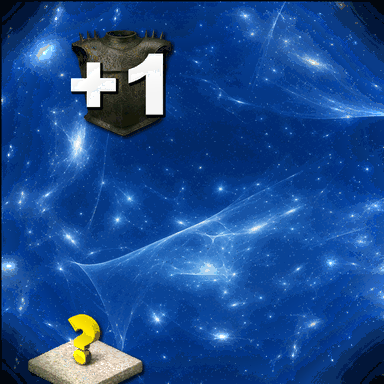
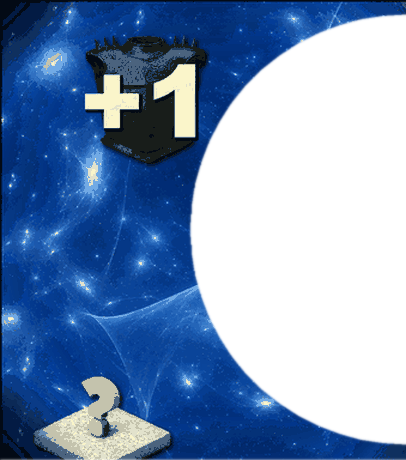
Crescent-shape the drawn possessed tokens (#289)
Reshape the 9 possessed face tiles into crescents - each masked to the token's
own 3D mesh silhouette from the "Possessed Tokens" bag, with the per-token
delta icons kept on the left - and rework PossessedEnemyFace so the circular
enemy nests into the crescent's bite instead of overlapping a square tile.

The tile aspect, enemy diameter and offsets are constants measured once from
that mesh, so the circle seats in the bite and the pair reads as one
interlocked token (matching the physical component) rather than "a circle on
a square". App-module UI only; PossessedEnemy.combine and the summed stats are
untouched.

Claude-Session: https://claude.ai/code/session_01NVmjoUVvDY9gk4NXb37F1S

diff --git a/app/src/main/kotlin/com/guyteichman/mageknightbuddy/ui/enemypicker/PossessedTokenArt.kt b/app/src/main/kotlin/com/guyteichman/mageknightbuddy/ui/enemypicker/PossessedTokenArt.kt
@@ -27,38 +27,42 @@ import com.guyteichman.mageknightbuddy.domain.PossessedToken
 
 /**
  * Renders one **possessed enemy** (docs/rules/apocalypse-dragon.md): the [circular] enemy token
- * dropped onto the [possessed] token, the way the cardboard stacks (rulebook p.7). The possessed
- * token is a square starfield tile carrying the delta icons down its left; the circular enemy - the
- * same diameter as any other enemy face - nests against its right side and **protrudes past its right
- * edge**, so the composite is wider than it is tall ([COMPOSITE_ASPECT]). Because the enemy face is an
- * opaque circle drawn on top, it simply covers the tile where they overlap and the tile's delta icons
- * stay visible on the left - no cut-out needed. The *numbers* shown elsewhere are the summed values
+ * nested into the [possessed] token, the way the cardboard stacks (rulebook p.7). The possessed token
+ * is a **crescent** starfield tile - the delta icons run down its left, and a circular bite on its
+ * right is where the enemy drops in. The circular enemy is drawn on top, filling the bite and
+ * **protruding past the tile's right edge**, so the composite is wider than it is tall
+ * ([COMPOSITE_ASPECT]) and the two read as one interlocked token. The tile aspect, enemy diameter and
+ * offsets are all fractions of [size] measured from the token's own 3D mesh silhouette, so the circle
+ * seats in the bite instead of overlapping a square. The *numbers* shown elsewhere are the summed values
  * ([com.guyteichman.mageknightbuddy.domain.PossessedEnemy.combine]) - this is only the art.
  */
 @Composable
 internal fun PossessedEnemyFace(circular: EnemyToken, possessed: PossessedToken, size: Dp) {
-    // [size] is the tile side and the enemy diameter (matching a normal enemy face). The composite is
-    // wider by the enemy's overhang past the tile's right edge.
+    // [size] is the crescent tile's height; every other length below is a fraction of it. The composite
+    // is wider than [size] by the enemy's overhang past the bite.
     val compositeWidth = size * COMPOSITE_ASPECT
     Box(modifier = Modifier.size(width = compositeWidth, height = size)) {
-        // Possessed tile, flush to the left. Its cleaned art is a plain rectangle (an earlier
-        // rounded-corner clip distorted the delta numbers), so it's drawn as-is.
-        PossessedTokenFace(possessed = possessed, size = size, modifier = Modifier.align(Alignment.CenterStart))
-        // Circular enemy on top, its centre [ENEMY_CENTER_X] of the way across the tile. Its box is
-        // offset from the composite's left by (centre - radius); radius is half the diameter (= size).
-        Box(modifier = Modifier.align(Alignment.CenterStart).offset(x = size * (ENEMY_CENTER_X - 0.5f))) {
-            EnemyTokenFace(token = circular, size = size)
+        // Crescent possessed tile, flush to the top-left; its transparent bite is where the enemy seats.
+        PossessedTokenFace(possessed = possessed, size = size, modifier = Modifier.align(Alignment.TopStart))
+        // Circular enemy nested in the bite and overhanging the tile's right edge. The offsets place its
+        // box so the circle's centre lands on the bite centre; drawn on top, it covers the tile they share.
+        Box(
+            modifier = Modifier
+                .align(Alignment.TopStart)
+                .offset(x = size * ENEMY_OFFSET_X_FRAC, y = size * ENEMY_OFFSET_Y_FRAC),
+        ) {
+            EnemyTokenFace(token = circular, size = size * ENEMY_DIAMETER_FRAC)
         }
     }
 }
 
 /**
- * The possessed token's own face at [size] - a plain square tile (its cleaned art is a starfield
- * rectangle with the delta icons, no rounding). [modifier] lets a caller position it (e.g.
- * [PossessedEnemyFace] aligns it left). If its art is bundled (an asset at `enemy-tokens/<id>.png`
- * or `.jpg`, per ADR-0007) it's drawn; otherwise a themed "possession" disc with the token's modifier
- * summary stands in - the same graceful-degradation the round [EnemyTokenFace] uses, so the picker
- * works before the possessed art is sourced.
+ * The possessed token's own face: a **crescent** starfield tile ([size] tall, [TILE_ASPECT] as wide),
+ * its delta icons down the left and a transparent circular bite on the right. [modifier] lets a caller
+ * position it (e.g. [PossessedEnemyFace] aligns it top-left). If its art is bundled (an asset at
+ * `enemy-tokens/<id>.png` or `.jpg`, per ADR-0007) it's drawn; otherwise a themed "possession" disc
+ * with the token's modifier summary stands in - the same graceful-degradation the round [EnemyTokenFace]
+ * uses, so the picker works before the possessed art is sourced.
  */
 @Composable
 internal fun PossessedTokenFace(possessed: PossessedToken, size: Dp, modifier: Modifier = Modifier) {
@@ -66,11 +70,12 @@ internal fun PossessedTokenFace(possessed: PossessedToken, size: Dp, modifier: M
     val bitmap = remember(possessed.id) { loadPossessedBitmap(context, possessed.id) }
 
     if (bitmap != null) {
-        // No clip: the cleaned art is already a plain rectangle the size of the tile.
+        // No clip: the PNG's own alpha is the crescent shape. Height is [size]; width follows the tile's
+        // aspect so the bite stays circular.
         Image(
             bitmap = bitmap,
             contentDescription = "Possessed token",
-            modifier = modifier.size(size),
+            modifier = modifier.size(width = size * TILE_ASPECT, height = size),
         )
     } else {
         Box(
@@ -105,8 +110,8 @@ internal fun PossessedToken.summary(): String = buildList {
 
 /** Loads `enemy-tokens/<id>.png` (then `.jpg`) from assets, or null if the possessed art isn't bundled yet. */
 private fun loadPossessedBitmap(context: Context, id: String): ImageBitmap? {
-    // Possessed tiles are square PNGs (transparent-free), so PNG is tried first; a JPG crop still
-    // works as a fallback source. assets.open throws when absent - that's the "no art" signal.
+    // Possessed tiles are transparent PNGs (a starfield crescent silhouette), so PNG is tried first; a
+    // JPG crop still works as a fallback source. assets.open throws when absent - that's the "no art" signal.
     for (ext in listOf("png", "jpg")) {
         try {
             context.assets.open("enemy-tokens/$id.$ext").use { stream ->
@@ -120,11 +125,16 @@ private fun loadPossessedBitmap(context: Context, id: String): ImageBitmap? {
 }
 
 /**
- * Enemy-circle centre X as a fraction of the possessed tile's width (> 1.0 would be off the tile;
- * 0.909 sits it near the right, so its left arc clears the tile's left-side delta icons and its right
- * arc overhangs past the tile's right edge). The enemy radius is half the tile side.
+ * Composite geometry, all as fractions of the tile height [size], measured once from the possessed
+ * token's own 3D mesh silhouette (the same mesh that shapes each `possessed_0*.png` crescent). Together
+ * they seat the circular enemy in the crescent's bite:
+ * - [TILE_ASPECT] - the crescent tile's width / height.
+ * - [ENEMY_DIAMETER_FRAC] - the enemy circle's diameter (it fills the bite, a touch under a full tile height).
+ * - [ENEMY_OFFSET_X_FRAC] / [ENEMY_OFFSET_Y_FRAC] - the enemy box's top-left corner within the composite.
+ * - [COMPOSITE_ASPECT] - the whole composite's width / height (the tile plus the enemy's right overhang).
  */
-private const val ENEMY_CENTER_X = 0.909f
-
-/** Composite width as a multiple of the tile side: the tile (1.0) plus the enemy's right overhang. */
-private const val COMPOSITE_ASPECT = ENEMY_CENTER_X + 0.5f
+private const val TILE_ASPECT = 0.882f
+private const val ENEMY_DIAMETER_FRAC = 0.967f
+private const val ENEMY_OFFSET_X_FRAC = 0.398f
+private const val ENEMY_OFFSET_Y_FRAC = 0.032f
+private const val COMPOSITE_ASPECT = 1.366f

diff --git a/app/src/main/assets/enemy-tokens/README.md b/app/src/main/assets/enemy-tokens/README.md
@@ -44,7 +44,10 @@ piles (they share the base tokens' backs): green `orc_skirmishers`/`orc_trackers
 `lava_dragon`/`dragon_summoner`/`storm_dragon`; white `fire_catapult`/`ice_catapult`/
 `delphana_masters`/`grim_legionnaires`. The **Shades of Tezla** enemy tokens are present too — all 22
 (11 Elementalist + 11 Dark Crusader), mixed into the same colour piles — as are the 3 **Lost Legion
-ruin** tokens and the 9 Apocalypse Dragon **possessed** token faces (`possessed_0*.png`, issue #189).
+ruin** tokens and the 9 Apocalypse Dragon **possessed** token faces (`possessed_0*.png`, issue #189) -
+now **crescent**-shaped (issue #289): each is masked to the possessed token's own 3D mesh silhouette
+(from the "Possessed Tokens" bag), so the circular enemy nests into the bite in `PossessedEnemyFace`
+instead of overlapping a square, with the delta icons kept on the left.
 The enemy-token catalogue is therefore complete (base + Lost Legion + Shades of Tezla, 73 faces), and
 with the Possessed pile *back* (`backs/possessed.png`, issue #277) now added, every pile in the Enemy
 Picker has its back art (see `docs/rules/enemy-tokens.md`).
